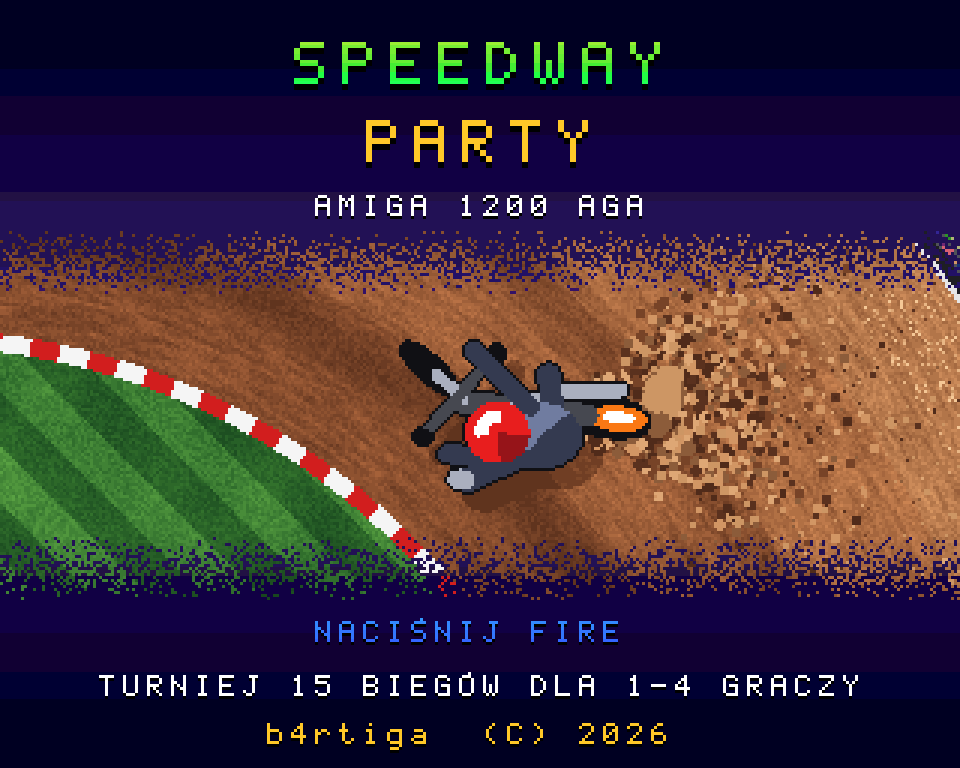
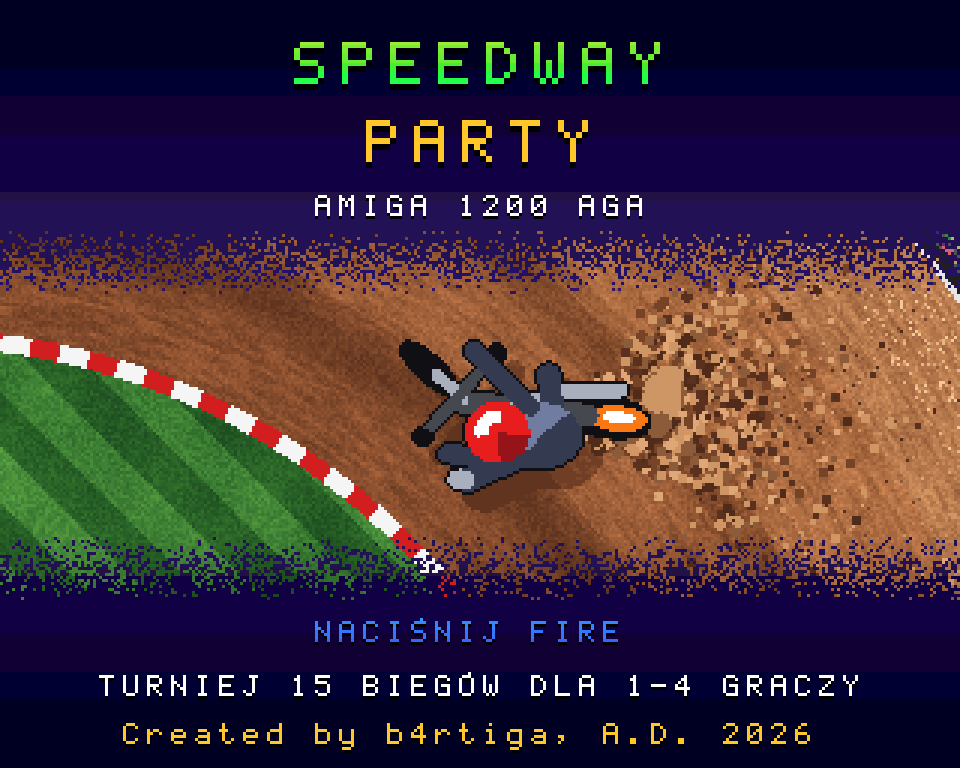
Plansza tytulowa: podpis "Created by b4rtiga, A.D. 2026"

Changed region(s): [[0.125, 0.9375, 0.7188, 1.0], [0.75, 0.9375, 0.8438, 0.9688]]

diff --git a/src/ui.c b/src/ui.c
@@ -134,7 +134,7 @@ static void draw_title(UBYTE *b)
     text_draw_center(b, 64, "AMIGA 1200 AGA", U_WHITE, U_SHADOW);
     if (blink) text_draw_center(b, 206, "NACIŚNIJ FIRE", U_RAINBOW, U_SHADOW);
     text_draw_center(b, 224, "TURNIEJ 15 BIEGÓW DLA 1-4 GRACZY", U_WHITE, U_SHADOW);
-    text_draw_center(b, 240, "b4rtiga  (C) 2026", U_GOLD, U_SHADOW);
+    text_draw_center(b, 240, "Created by b4rtiga, A.D. 2026", U_GOLD, U_SHADOW);
 }
 
 BOOL ui_title_update(void)
